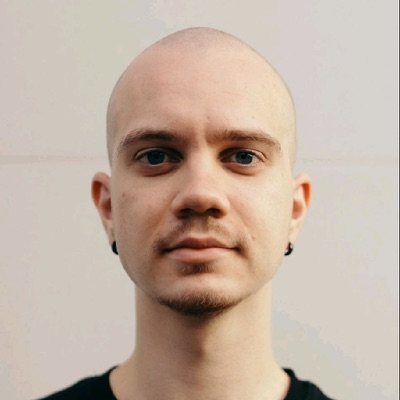
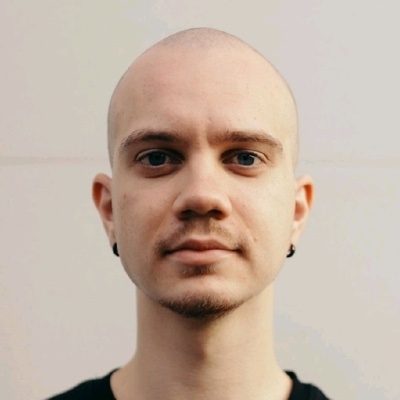
New headline and subline, larger team photos, three-parts section

diff --git a/index.html b/index.html
@@ -5,7 +5,7 @@
 <meta name="viewport" content="width=device-width,initial-scale=1">
 <meta name="theme-color" content="#fdfdfd">
 <title>Theia · NASA Space Apps Challenge 2026</title>
-<meta name="description" content="Theia checks your posture with a phone camera, compares it with your own normal, and tells you whether a change is expected.">
+<meta name="description" content="After injury or spaceflight, the body compensates. Theia films a squat with a phone camera, compares each rep with your own normal, and flags maladaptive compensation: the change that should have faded by now.">
 <link href="https://cdn.jsdelivr.net/npm/computer-modern@0.1.2/cmu-serif.css" rel="stylesheet">
 <link rel="preconnect" href="https://fonts.gstatic.com" crossorigin>
 <link href="https://fonts.googleapis.com/css2?family=Newsreader:ital,opsz,wght@1,6..72,400&display=swap" rel="stylesheet">
@@ -28,7 +28,7 @@ p{margin:0}
 @media (max-width:700px){.mast .dl{grid-template-columns:minmax(0,1fr);gap:2px}.mast .dl span{text-align:center!important}}
 .head{text-align:center;padding:48px 0 44px}
 .head h1{font-weight:500;font-size:clamp(34px,5vw,58px);line-height:1.1;max-width:18ch;margin:0 auto;letter-spacing:0;text-wrap:balance}
-.head .sub{max-width:46ch;margin:18px auto 0;font-size:20px;color:var(--muted);text-wrap:pretty}
+.head .sub{max-width:52ch;margin:18px auto 0;font-size:20px;color:var(--muted);text-wrap:pretty}
 .links{display:flex;justify-content:center;gap:0 22px;flex-wrap:wrap;margin-top:12px;font-size:17px}
 .links a{padding:10px 2px}
 .demo{padding:48px 0 56px;border-top:1px solid oklch(0.18 0 0 / .14)}
@@ -68,15 +68,13 @@ p{margin:0}
 .team{padding:56px 0 0;border-top:1px solid oklch(0.18 0 0 / .14)}
 .team h2{font-weight:500;font-size:30px;line-height:1.15;margin:0 0 6px;text-align:center}
 .team .lede{text-align:center;color:var(--muted);font-size:17px;max-width:52ch;margin:0 auto 32px;text-wrap:pretty}
-.team .row{display:grid;grid-template-columns:repeat(4,minmax(0,1fr));gap:28px 24px}
+.team .row{display:grid;grid-template-columns:repeat(4,minmax(0,1fr));gap:28px 24px;max-width:768px;margin:0 auto}
 .team .ph{display:block;width:100%;height:auto;aspect-ratio:1;object-fit:cover;background:oklch(0.9 0 0);margin-bottom:12px}
 .team .who{font-size:18px;line-height:1.25;font-weight:700;width:min-content}
 .team .p{position:relative}
 .team .who a::after{content:"";position:absolute;inset:0} /* the whole card opens LinkedIn */
 @media (hover:hover) and (pointer:fine){.team .p:hover .who a{color:var(--acc)}}
-.team .role{font-size:15px;margin-top:2px;color:var(--muted)}
 .team .note{margin-top:28px;text-align:center;font-size:15px;font-style:italic;color:var(--muted)}
-.team .did{font-size:15px;margin-top:8px;padding-top:8px;border-top:1px solid oklch(0.18 0 0 / .14);text-wrap:pretty}
 @media (max-width:760px){.team .row{grid-template-columns:repeat(2,minmax(0,1fr))}}
 </style>
 </head>
@@ -87,8 +85,8 @@ p{margin:0}
   <div class="dl sc"><span>Vienna</span><span>NASA Space Apps Challenge</span><span>14–15 November 2026</span></div>
  </header>
  <main class="head">
-  <h1>Is my body recovering normally?</h1>
-  <p class="sub">Theia checks your posture with a phone camera, compares it with your own normal, and tells you whether a change is expected.</p>
+  <h1>Adaptation or maladaptive compensation?</h1>
+  <p class="sub">After injury or spaceflight, the body compensates. Theia films a squat with a phone camera, compares each rep with your own normal, and flags <b>maladaptive compensation</b>: the change that should have faded by now.</p>
   <p class="links"><a href="theia-paper.pdf" target="_blank" rel="noopener">Paper (PDF, 15 Nov)</a><a href="#">Slides</a><a href="https://github.com/aodanchenko/theia-app">Code</a></p>
  </main>
  <section class="parts" aria-labelledby="parts-h">
@@ -117,10 +115,10 @@ p{margin:0}
   <h2 id="team-h">Team</h2>
   <p class="lede">Four people, 48 hours, software only.</p>
   <div class="row">
-   <div class="p"><img class="ph" src="img/p1.jpg" alt="Mariia Shevtsova" width="400" height="400" loading="lazy"><p class="who"><a href="https://www.linkedin.com/in/mariia-shevtsova-0751a2193/">Mariia Shevtsova</a></p><p class="role">Role</p><p class="did">One line on what they built.</p></div>
-   <div class="p"><img class="ph" src="img/p2.jpg" alt="Anna Danchenko" width="400" height="400" loading="lazy"><p class="who"><a href="https://www.linkedin.com/in/anna-danchenko/">Anna Danchenko</a></p><p class="role">Role</p><p class="did">One line on what they built.</p></div>
-   <div class="p"><img class="ph" src="img/p3.jpg" alt="Oleksandr Namchuk" width="400" height="400" loading="lazy"><p class="who"><a href="https://www.linkedin.com/in/oleksandr-namchuk-249488236/">Oleksandr Namchuk</a></p><p class="role">Role</p><p class="did">One line on what they built.</p></div>
-   <div class="p"><img class="ph" src="img/p4.jpg" alt="Hlib Plakhtii" width="400" height="400" loading="lazy"><p class="who"><a href="https://www.linkedin.com/in/hlib-plakhtii/">Hlib Plakhtii</a></p><p class="role">Role</p><p class="did">One line on what they built.</p></div>
+   <div class="p"><img class="ph" src="img/p1.jpg" alt="Mariia Shevtsova" width="400" height="400" loading="lazy"><p class="who"><a href="https://www.linkedin.com/in/mariia-shevtsova-0751a2193/">Mariia Shevtsova</a></p></div>
+   <div class="p"><img class="ph" src="img/p2.jpg" alt="Anna Danchenko" width="400" height="400" loading="lazy"><p class="who"><a href="https://www.linkedin.com/in/anna-danchenko/">Anna Danchenko</a></p></div>
+   <div class="p"><img class="ph" src="img/p3.jpg" alt="Oleksandr Namchuk" width="400" height="400" loading="lazy"><p class="who"><a href="https://www.linkedin.com/in/oleksandr-namchuk-249488236/">Oleksandr Namchuk</a></p></div>
+   <div class="p"><img class="ph" src="img/p4.jpg" alt="Hlib Plakhtii" width="400" height="400" loading="lazy"><p class="who"><a href="https://www.linkedin.com/in/hlib-plakhtii/">Hlib Plakhtii</a></p></div>
   </div>
   <p class="note">Listed in no particular order; the order does not reflect contribution.</p>
  </section>
